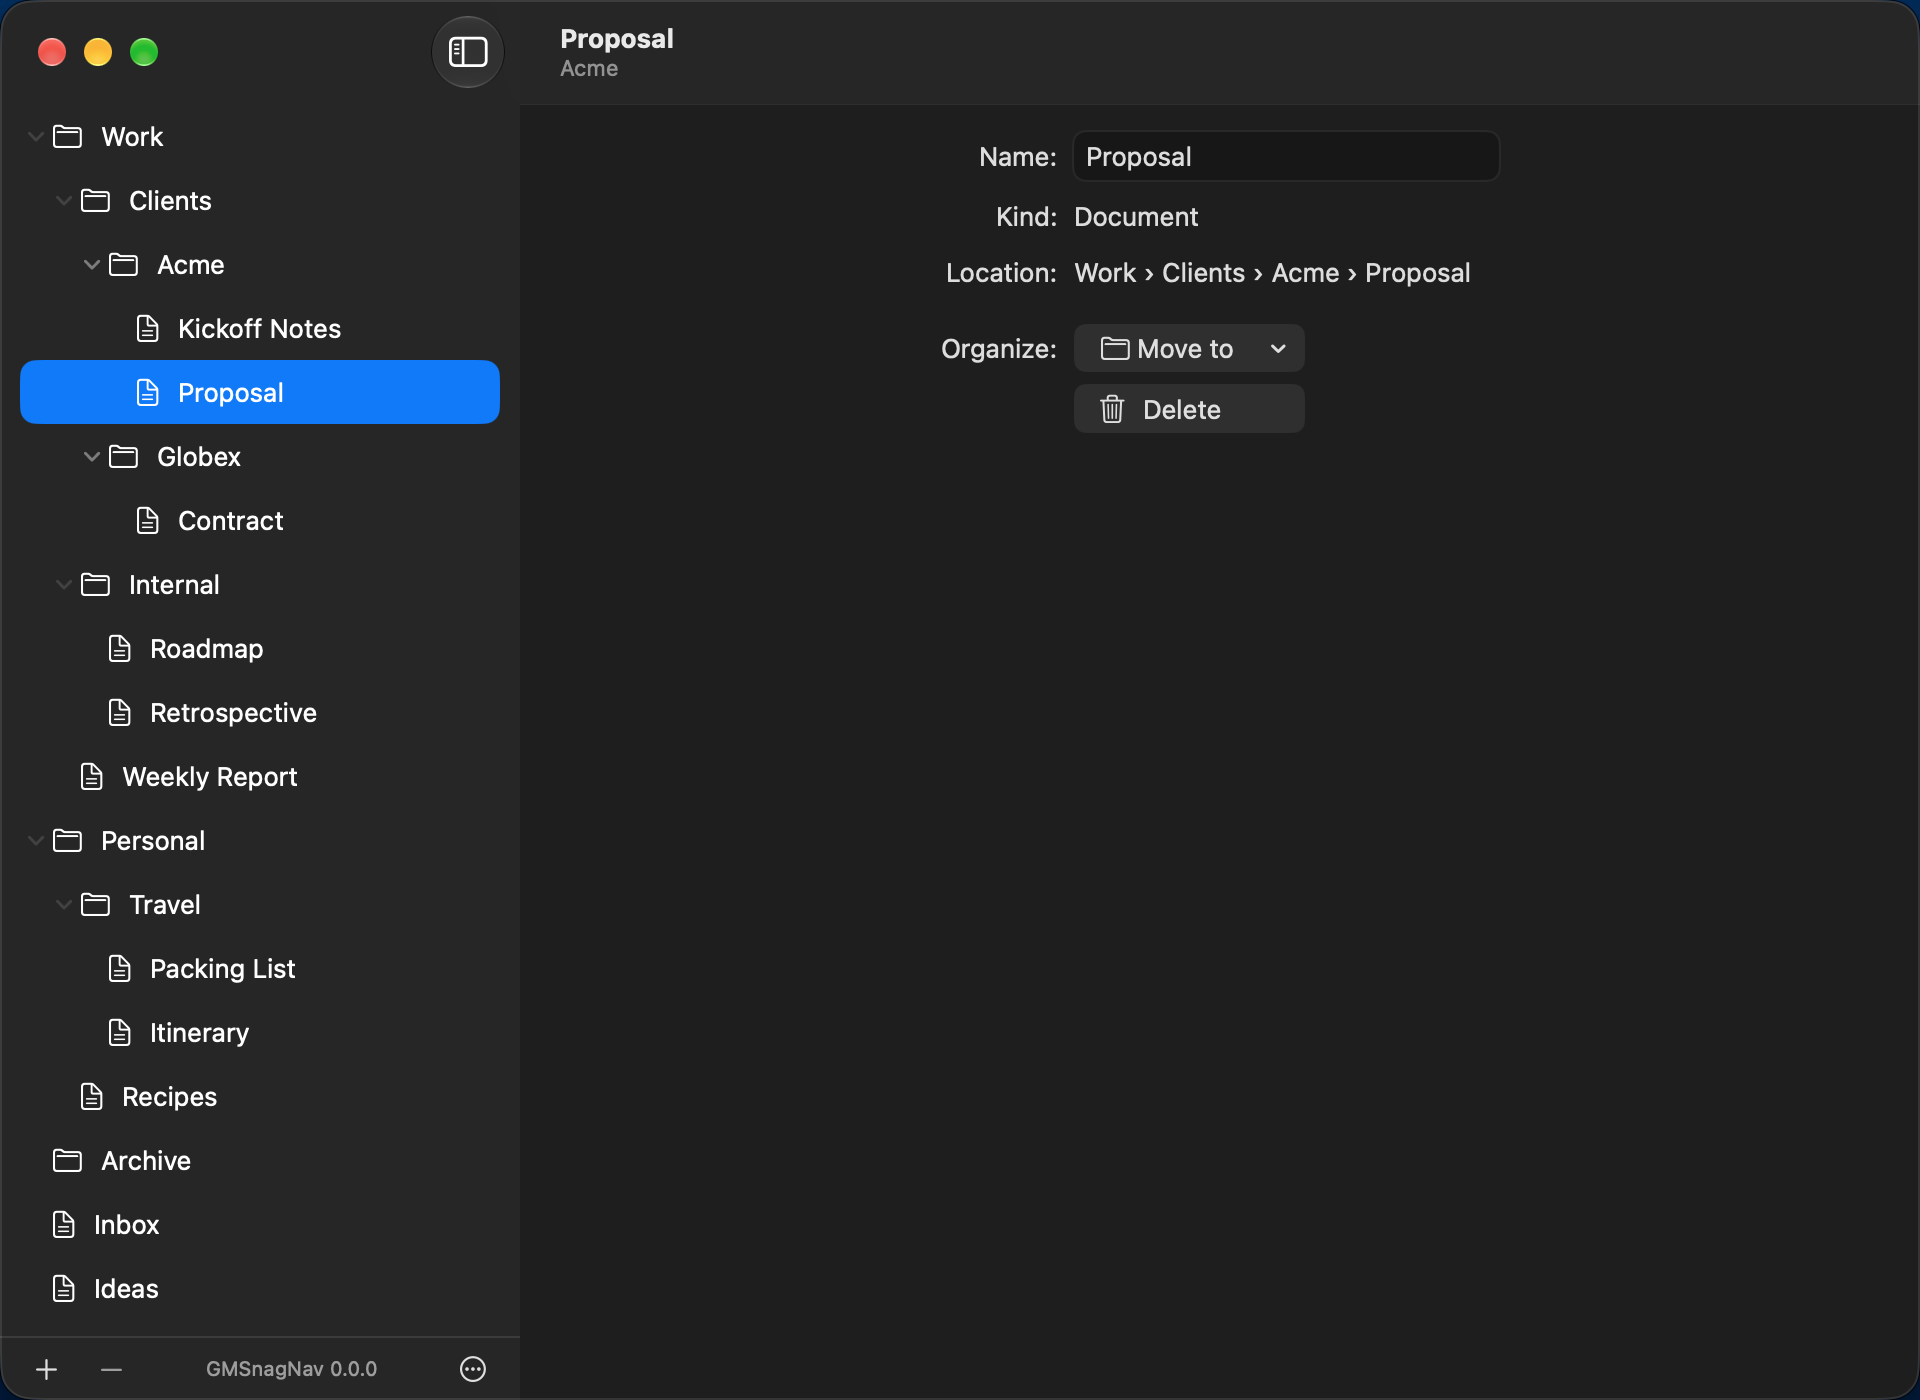
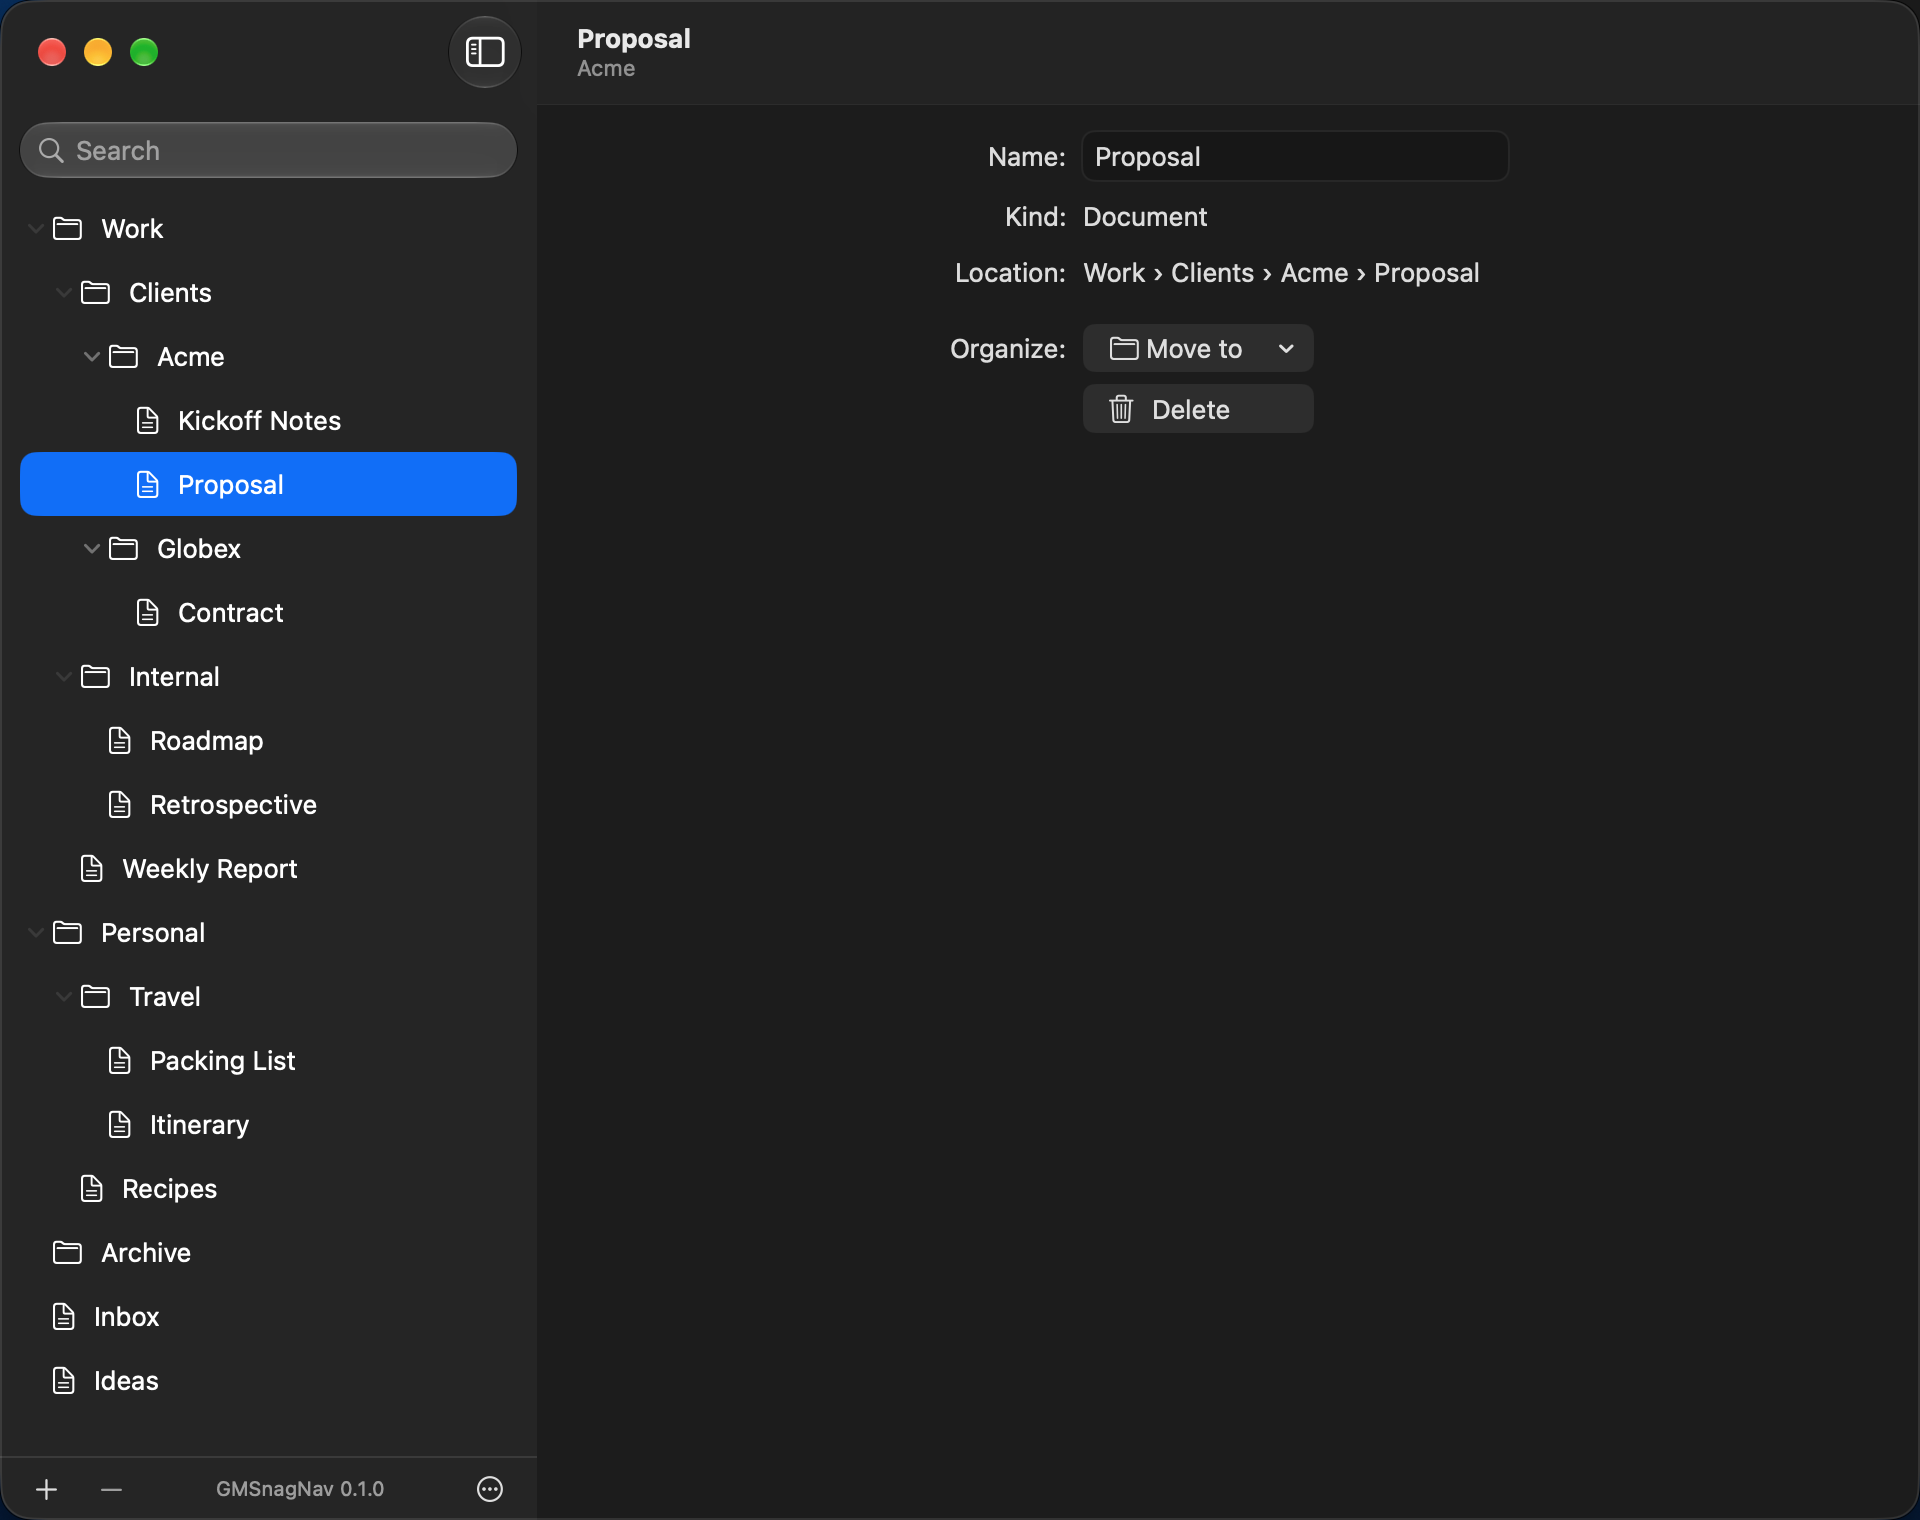
docs: refresh the README screenshots for 0.1.0
The screenshots show the sidebar's search field and the version 0.1.0.
The demo's UI test window is 60 points taller, so the whole sample
library still fits below the search field.

diff --git a/Examples/SnagNavDemo/SnagNavDemo/SnagNavDemoApp.swift b/Examples/SnagNavDemo/SnagNavDemo/SnagNavDemoApp.swift
@@ -38,7 +38,7 @@ struct SnagNavDemoApp: App {
     private static func resizeWindowForUITests() {
       DispatchQueue.main.async {
         guard let window = NSApplication.shared.windows.first(where: \.isVisible) else { return }
-        window.setFrame(NSRect(x: 80, y: 80, width: 960, height: 700), display: true)
+        window.setFrame(NSRect(x: 80, y: 80, width: 960, height: 760), display: true)
       }
     }
   #endif
